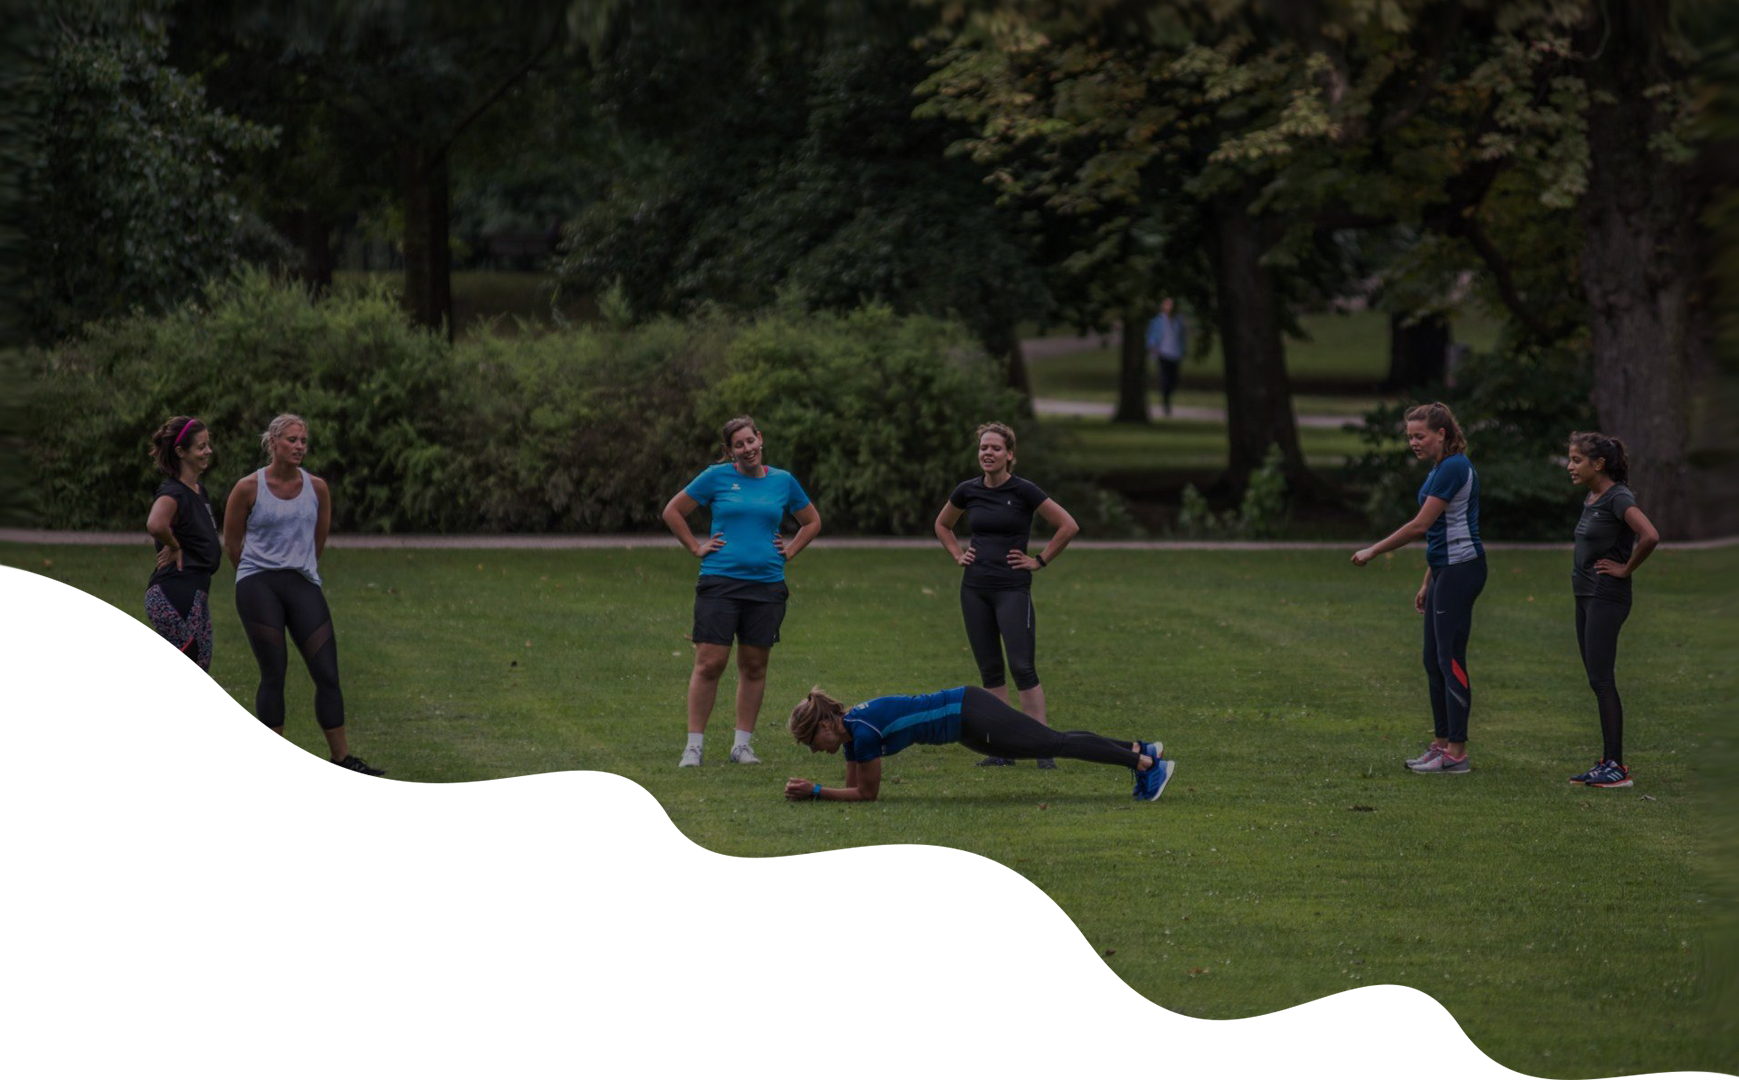
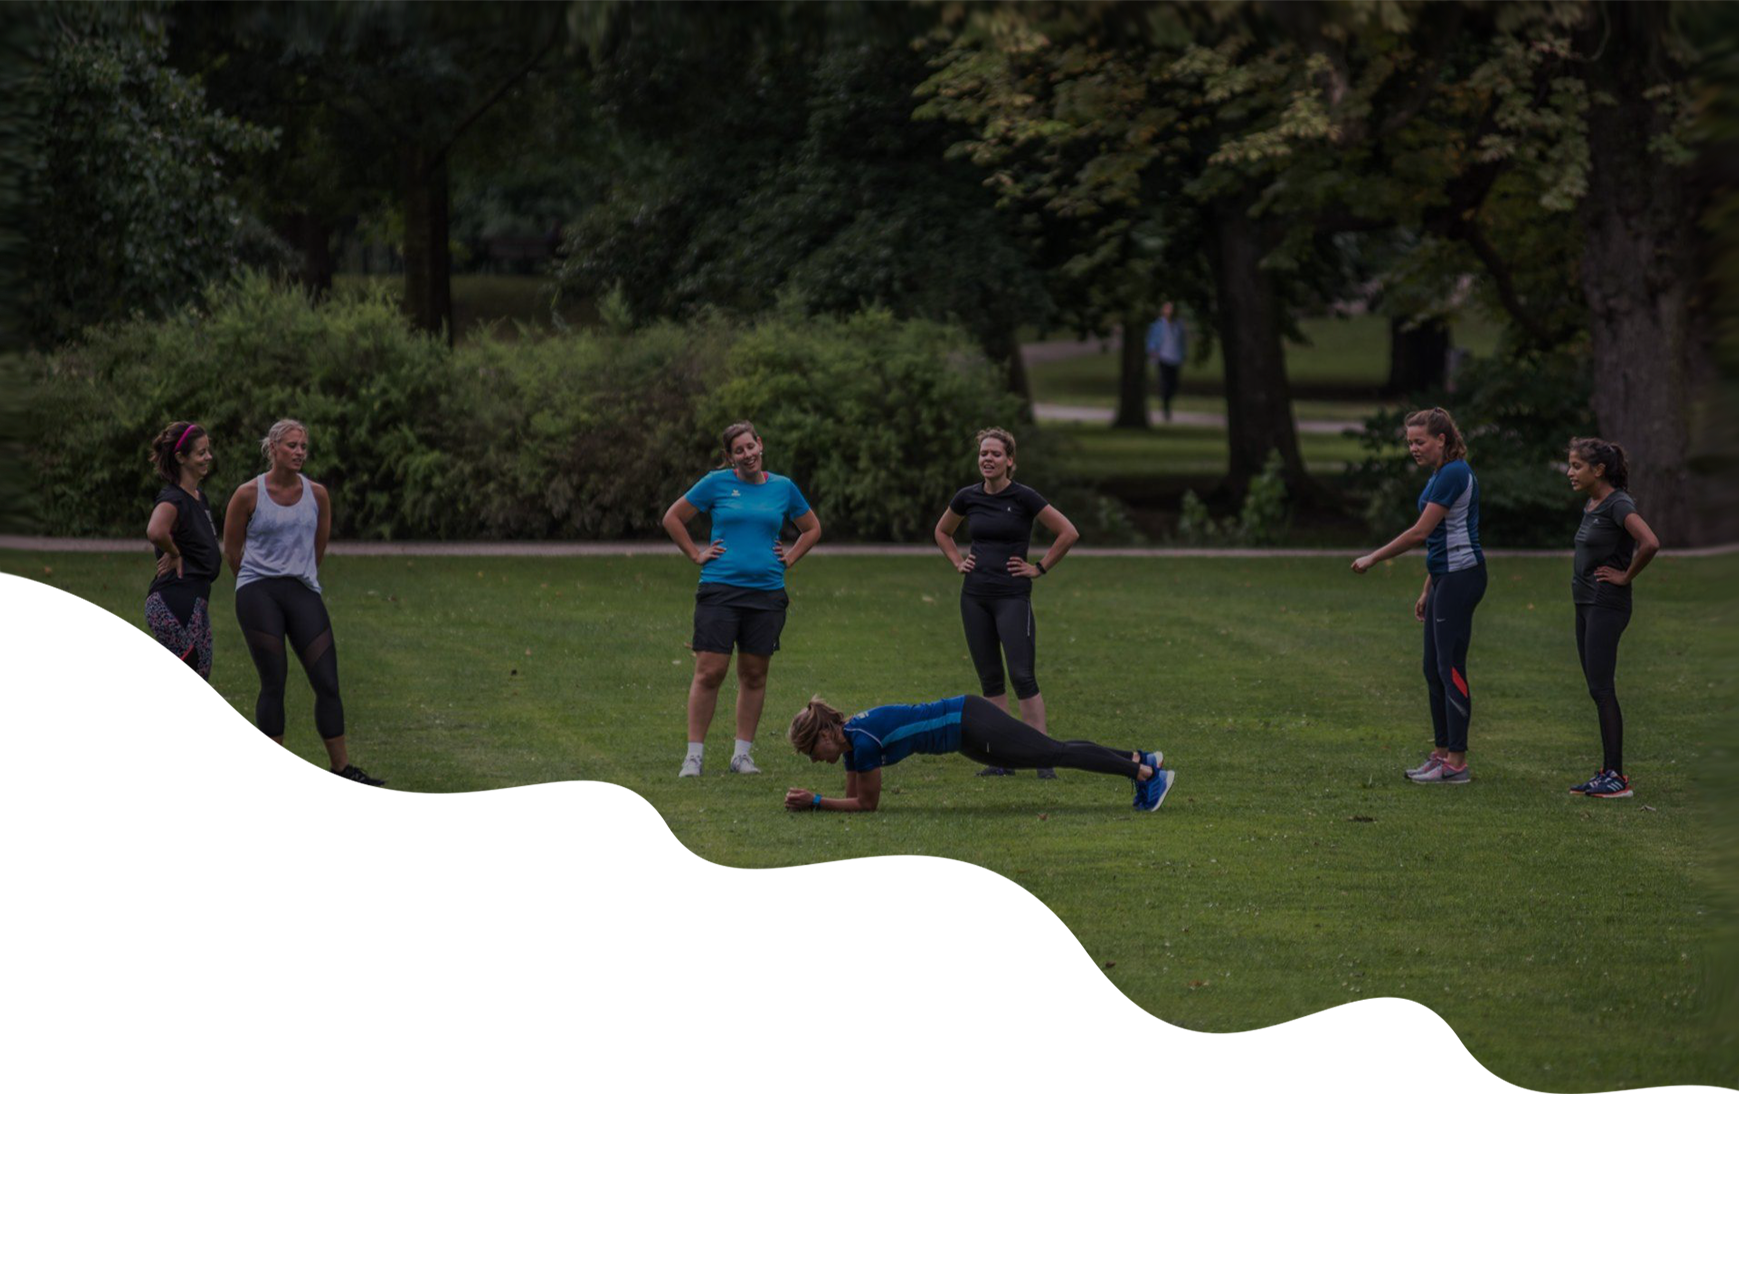
update fundo

diff --git a/Front-Office/css/responsive.css b/Front-Office/css/responsive.css
@@ -288,7 +288,7 @@
         display: none;
     }
     .header_section {
-        background-image: url(../images/mobile-bg.png);
+        background-image: url(../images/FundoCima_mobile.png);
         background-size: cover;
         padding: 0px;
     }
@@ -431,7 +431,7 @@
         margin: 0 auto;
     }
     .footer_section {
-        background-image: url(../images/footer-mobile-bg.png);
+        background-image: url(../images/FundoBaixo_mobile.png);
         background-size: cover;
         padding: 50px 0px;
     }
@@ -487,7 +487,7 @@
         display: none;
     }
     .header_section {
-        background-image: url(../images/mobile-bg.png);
+        background-image: url(../images/FundoCima_mobile.png);
         background-size: cover;
         padding: 0px; 
     }
@@ -629,7 +629,7 @@
         margin: 0 auto;
     }
     .footer_section {
-        background-image: url(../images/footer-mobile-bg.png);
+        background-image: url(../images/FundoBaixo_mobile.png);
         background-size: cover;
         padding: 50px 0px;
     }

diff --git a/Front-Office/index.html b/Front-Office/index.html
@@ -41,7 +41,7 @@
       <div class="header_main">
          <div class="mobile_menu">
             <nav class="navbar navbar-expand-lg navbar-light bg-light">
-               <div class="logo_mobile"><a href="index.html"><img src="images/Logo1.png"></a></div>
+               <div class="logo_mobile"><a href="index.html"><img src="images/logo.png"></a></div>
                <button class="navbar-toggler" type="button" data-toggle="collapse" data-target="#navbarNav"
                   aria-controls="navbarNav" aria-expanded="false" aria-label="Toggle navigation">
                   <span class="navbar-toggler-icon"></span>
@@ -65,7 +65,7 @@
             </nav>
          </div>
          <div class="container-fluid">
-            <div class="logo"><a href="index.html"><img src="images/logo1.png"></a></div>
+            <div class="logo"><a href="index.html"><img src="images/logo.png"></a></div>
             <div class="menu_main">
                <ul>
                   <li class="active"><a href="index.html">Início</a></li>

diff --git a/Front-Office/about.html b/Front-Office/about.html
@@ -65,7 +65,7 @@
             </nav>
          </div>
          <div class="container-fluid">
-            <div class="logo"><a href="index.html"><img src="images/Logo1.png"></a></div>
+            <div class="logo"><a href="index.html"><img src="images/logo.png"></a></div>
             <div class="menu_main">
                <ul>
                   <li class="active"><a href="index.html">Início</a></li>

diff --git a/Front-Office/services.html b/Front-Office/services.html
@@ -65,7 +65,7 @@
             </nav>
          </div>
          <div class="container-fluid">
-            <div class="logo"><a href="index.html"><img src="images/Logo1.png"></a></div>
+            <div class="logo"><a href="index.html"><img src="images/logo.png"></a></div>
             <div class="menu_main">
                <ul>
                   <li class="active"><a href="index.html">Início</a></li>

diff --git a/Front-Office/login.html b/Front-Office/login.html
@@ -24,7 +24,7 @@
 
 </head>
 <body>
-  <div class="loginBox"> <img class="user" src="images/logomarca.png" height="200px" width="200px">
+  <div class="loginBox"> <img class="user" src="images/logo.png" height="200px" width="200px">
     <form action="login.php" method="post">
         <div class="inputBox">
           <input id="uname" type="text" name="Username" placeholder="Username">

diff --git a/Front-Office/propose.html b/Front-Office/propose.html
@@ -66,7 +66,7 @@
             </nav>
          </div>
          <div class="container-fluid">
-            <div class="logo"> <img src="images/logo1.png"> </div>
+            <div class="logo"> <img src="images/logo.png"> </div>
             <div class="menu_main">
                <ul>
                   <li class="active"><a href="index.html">Início</a></li>

diff --git a/Front-Office/css/style.css b/Front-Office/css/style.css
@@ -231,7 +231,7 @@ button {
 .header_section {
     width: 100%;
     float: left;
-    background-image: url(../images/FundoCima2.png);
+    background-image: url(../images/FundoCima.png);
     height: auto;
     background-size: 100%;
     padding: 0px 0px 20px 0px;
